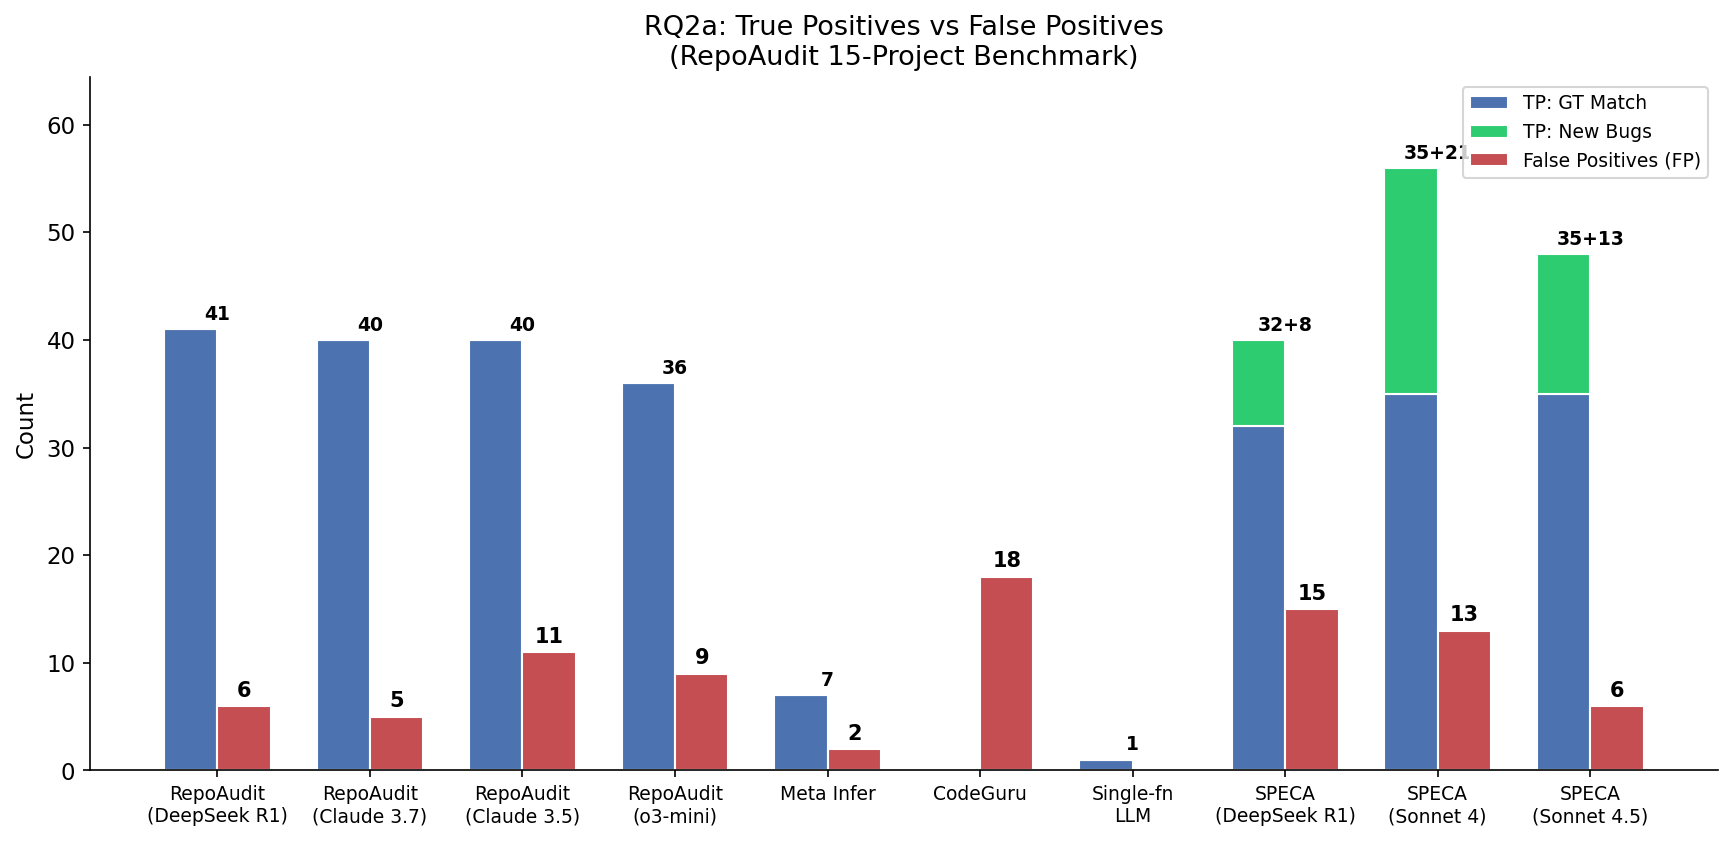
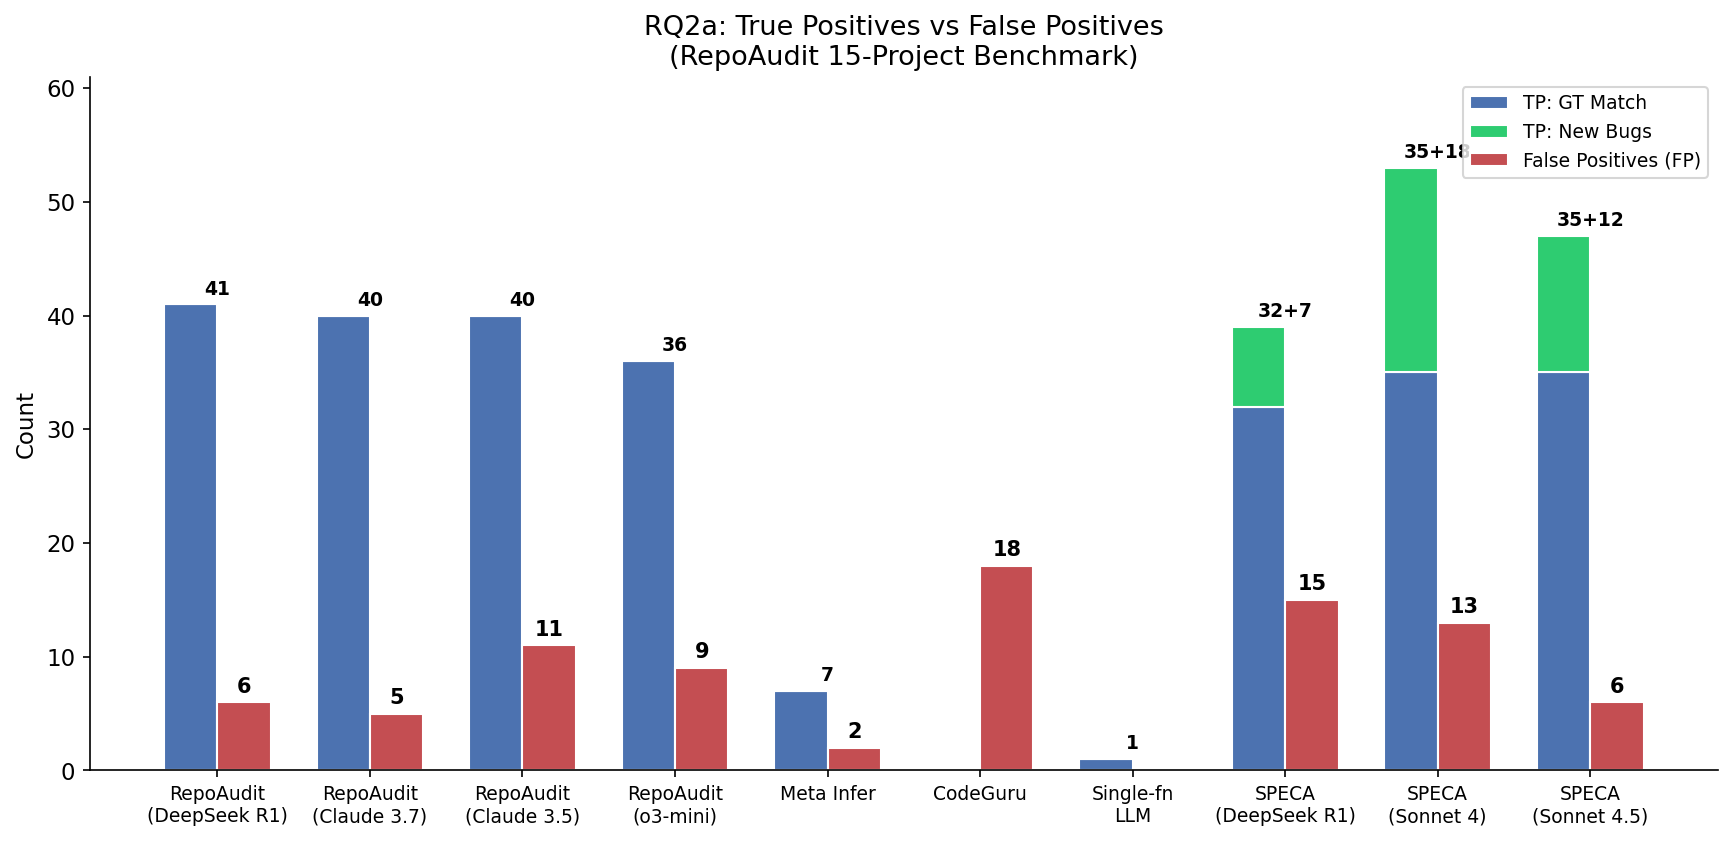
fix bench results

diff --git a/benchmarks/results/rq2a/analyze_corroboration.py b/benchmarks/results/rq2a/analyze_corroboration.py
@@ -1,0 +1,145 @@
+import json
+
+# Load the summary files
+with open('speca_sonnet4/speca_summary.json', 'r') as f:
+    sonnet4 = json.load(f)
+
+with open('speca/speca_summary.json', 'r') as f:
+    sonnet45 = json.load(f)
+
+with open('speca_deepseek_r1/speca_summary.json', 'r') as f:
+    deepseek = json.load(f)
+
+# Sonnet 4 new_tp findings
+sonnet4_new_tp = set(sonnet4['new_tp_findings'])
+sonnet45_new_tp = set(sonnet45['new_tp_findings'])
+deepseek_new_tp = set(deepseek['new_tp_findings'])
+
+print("=" * 80)
+print("SONNET 4 NEW_TP FINDINGS: 18 total")
+print("=" * 80)
+for i, finding in enumerate(sorted(sonnet4_new_tp), 1):
+    print(f"{i:2d}. {finding}")
+
+print("\n" + "=" * 80)
+print("3 GT DUPLICATE FINDINGS TO REMOVE:")
+print("=" * 80)
+gt_dups = ['PROP-N2-npd-018', 'PROP-N5-npd-013', 'PROP-N5-npd-017']
+for dup in gt_dups:
+    in_sonnet4 = dup in sonnet4_new_tp
+    print(f"  {dup}: IN SONNET4 new_tp = {in_sonnet4}")
+
+print("\n" + "=" * 80)
+print("CROSS-MODEL CORROBORATION ANALYSIS")
+print("=" * 80)
+
+# For each Sonnet 4 new_tp finding, check if corroborated by other models
+corroborated = []
+not_corroborated = []
+
+for finding in sorted(sonnet4_new_tp):
+    in_sonnet45 = finding in sonnet45_new_tp
+    in_deepseek = finding in deepseek_new_tp
+    
+    is_corroborated = in_sonnet45 or in_deepseek
+    
+    if is_corroborated:
+        corroborated.append(finding)
+        models = []
+        if in_sonnet45:
+            models.append("Sonnet 4.5")
+        if in_deepseek:
+            models.append("DeepSeek R1")
+        print(f"CORROBORATED: {finding} ({', '.join(models)})")
+    else:
+        not_corroborated.append(finding)
+        print(f"NOT CORROBORATED: {finding}")
+
+print("\n" + "=" * 80)
+print("CORROBORATION SUMMARY")
+print("=" * 80)
+print(f"Total Sonnet 4 new_tp findings: {len(sonnet4_new_tp)}")
+print(f"Corroborated by other models: {len(corroborated)}")
+print(f"Not corroborated: {len(not_corroborated)}")
+print(f"Corroboration percentage: {100 * len(corroborated) / len(sonnet4_new_tp):.1f}%")
+
+print("\n" + "=" * 80)
+print("CHECKING 3 GT DUPLICATES FOR CORROBORATION")
+print("=" * 80)
+
+gt_dup_corroboration = {}
+for dup in gt_dups:
+    in_sonnet45 = dup in sonnet45_new_tp
+    in_deepseek = dup in deepseek_new_tp
+    is_corroborated = in_sonnet45 or in_deepseek
+    gt_dup_corroboration[dup] = is_corroborated
+    
+    if is_corroborated:
+        models = []
+        if in_sonnet45:
+            models.append("Sonnet 4.5")
+        if in_deepseek:
+            models.append("DeepSeek R1")
+        print(f"  {dup}: CORROBORATED ({', '.join(models)})")
+    else:
+        print(f"  {dup}: NOT CORROBORATED")
+
+print("\n" + "=" * 80)
+print("AFTER REMOVING 3 GT DUPLICATES")
+print("=" * 80)
+
+# Remove GT dups from corroborated list
+remaining_corroborated = [f for f in corroborated if f not in gt_dups]
+remaining_not_corroborated = not_corroborated  # These never get removed
+
+new_total = len(sonnet4_new_tp) - 3
+new_corroborated_count = len(remaining_corroborated)
+new_corroboration_pct = 100 * new_corroborated_count / new_total if new_total > 0 else 0
+
+print(f"Remaining findings: {new_total} (was 18)")
+print(f"Corroborated findings: {new_corroborated_count} (was {len(corroborated)})")
+print(f"Not corroborated: {len(remaining_not_corroborated)}")
+print(f"New corroboration percentage: {new_corroboration_pct:.1f}% (was {100 * len(corroborated) / len(sonnet4_new_tp):.1f}%)")
+
+print("\n" + "=" * 80)
+print("FINAL CORROBORATED FINDINGS (after removal):")
+print("=" * 80)
+for finding in sorted(remaining_corroborated):
+    print(f"  {finding}")
+
+print("\n" + "=" * 80)
+print("BUG TYPE BREAKDOWN")
+print("=" * 80)
+
+# Original breakdown
+original_counts = {'NPD': 6, 'MLK': 6, 'UAF': 9}
+print(f"Original (21 findings): NPD=6, MLK=6, UAF=9, Total=21")
+
+# Categorize Sonnet 4 new_tp findings
+def extract_type(finding):
+    if 'npd' in finding:
+        return 'NPD'
+    elif 'mlk' in finding:
+        return 'MLK'
+    elif 'uaf' in finding:
+        return 'UAF'
+    return 'UNKNOWN'
+
+# Count types in remaining findings
+remaining_findings = sonnet4_new_tp - set(gt_dups)
+type_counts = {'NPD': 0, 'MLK': 0, 'UAF': 0}
+for finding in remaining_findings:
+    bug_type = extract_type(finding)
+    if bug_type in type_counts:
+        type_counts[bug_type] += 1
+
+print(f"After removing 3 NPD GT dups: NPD={type_counts['NPD']}, MLK={type_counts['MLK']}, UAF={type_counts['UAF']}, Total={new_total}")
+
+# Verify which types were removed
+removed_types = {'NPD': 0, 'MLK': 0, 'UAF': 0}
+for dup in gt_dups:
+    bug_type = extract_type(dup)
+    if bug_type in removed_types:
+        removed_types[bug_type] += 1
+print(f"Removed findings: NPD={removed_types['NPD']}, MLK={removed_types['MLK']}, UAF={removed_types['UAF']}")
+